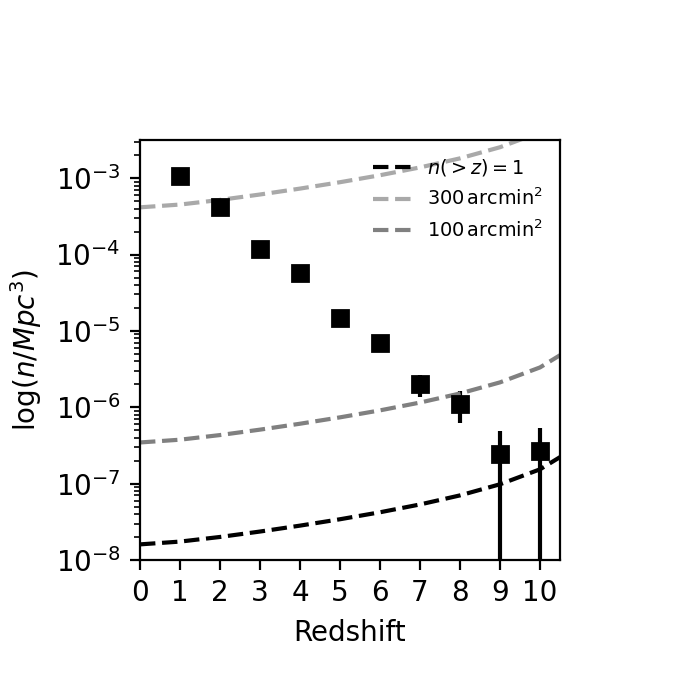
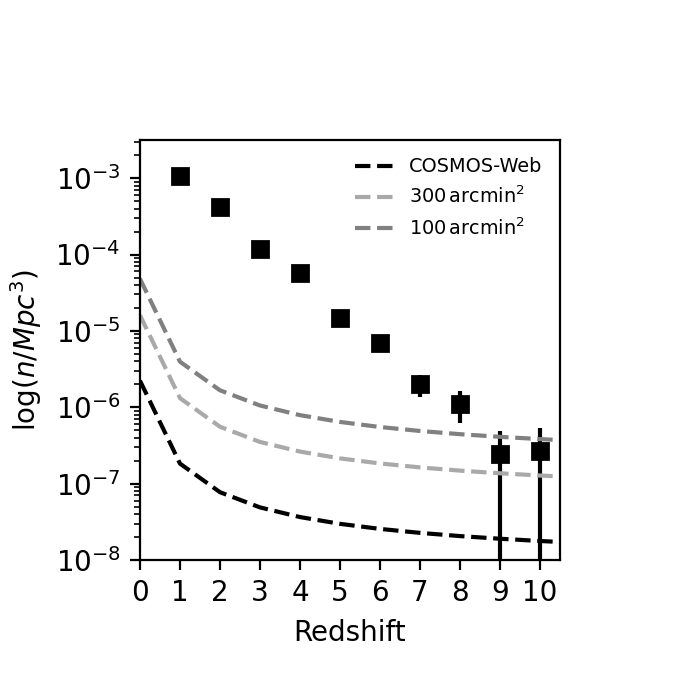
edits

diff --git a/_posts/2022-09-25-Neutrino_Summary.md b/_posts/2022-09-25-Neutrino_Summary.md
@@ -1,0 +1,15 @@
+---
+layout: post
+title:  "Neutrino Summary"
+date:   2022-09-23
+categories: neutrinos
+---
+
+I fixed a couple of problems in the code, so I am including the current code here.
+
+Some things of note:
+- Gadget does not use peculiar velocities, but uses $$v/\sqrt(a)$$.
+- camb.get_matter_power_interpolator by default only goes to redshifts 10. You need to pass an extra argument to get the power spectra at higher redshifts!
+
+<object width="500" height="200" type="text/plain" data="{{site.baseurl}}/assets/files/IC_Code_new.txt" border="0" >
+</object>

diff --git a/_posts/2022-09-26-Quiescent_Galaxies_in_COSMOS-Web.md b/_posts/2022-09-26-Quiescent_Galaxies_in_COSMOS-Web.md
@@ -40,7 +40,7 @@ Here is the number density as a function of redshift (similar to Fig. 7 in Merli
 
 <img src="{{ site.baseurl }}/assets/plots/20220926_QGs.png">
 
-The dashed lines show n(>z)=1 for different survey volumes. 100 arcmin^2  should be similar to CEERS, and 300 arcmin^2 should be similar to JADES.
+The dashed lines show 1/V(>z) (truncating at a redshift of 12) for different survey volumes. 100 arcmin^2  should be similar to CEERS, and 300 arcmin^2 should be similar to JADES.
 
 
 If I overlay this on top of the Merlin plot I find the following:
